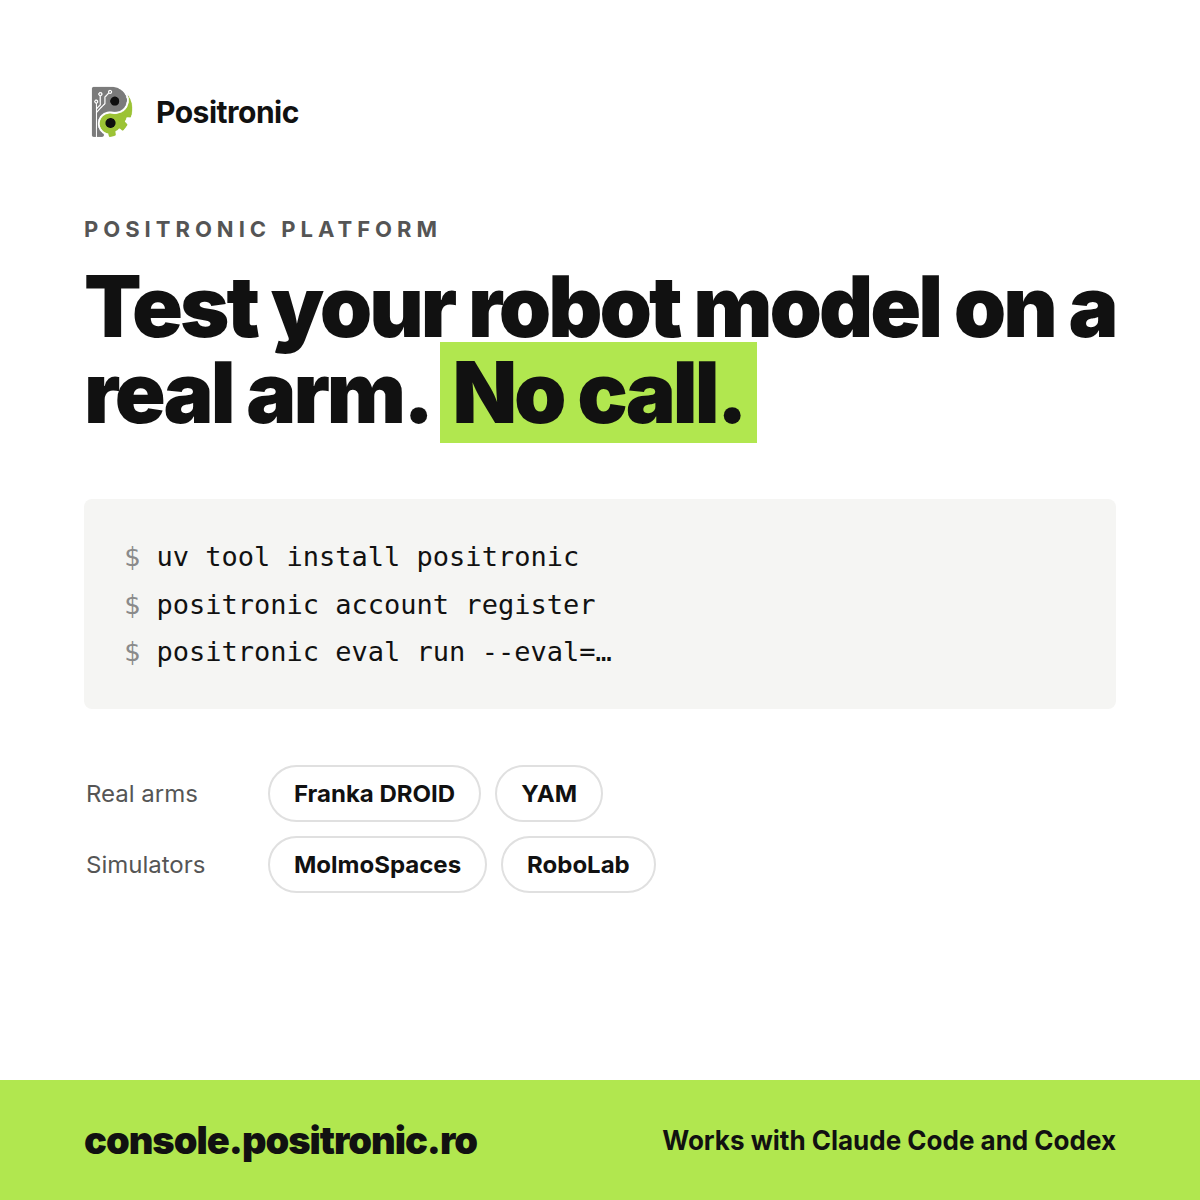
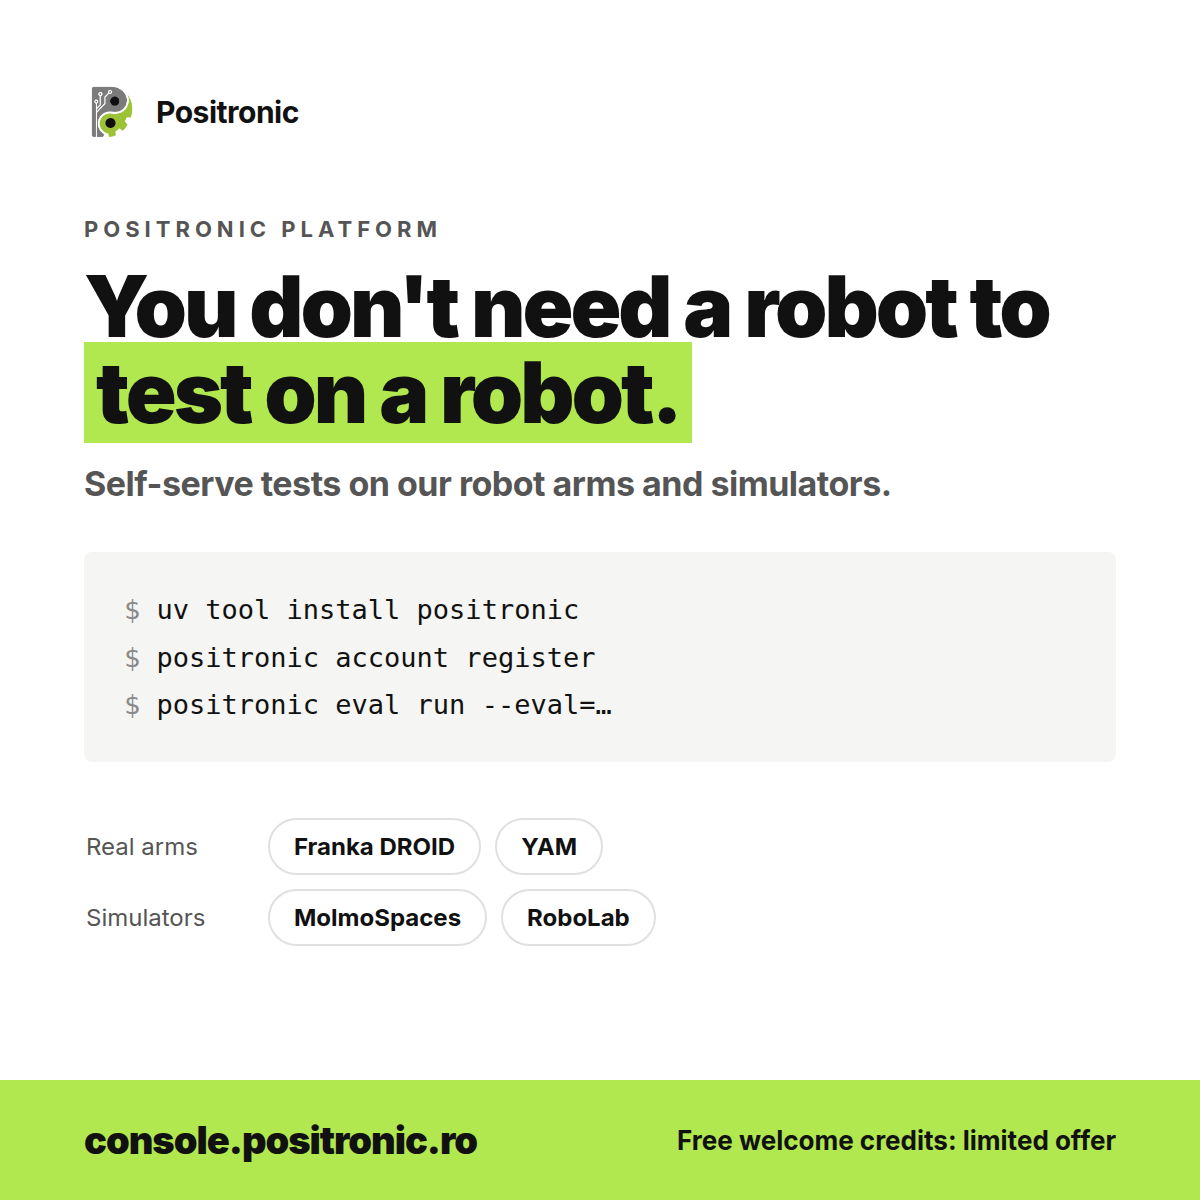
Rewrite the self-serve post around self-serve, transparent and fast
The title is now "You Don't Need a Robot to Test on a Robot". The post no
longer says "no call", "no contract" or "without talking to us", and it
offers free welcome credits as a limited offer. The card has the new
headline.

Ticket: none Inessa's work lives in the Work tool (task "self check-out")
Requested-by: Inessa

diff --git a/content/blog/positronic-platform-self-serve.md b/content/blog/positronic-platform-self-serve.md
@@ -1,14 +1,18 @@
-Title: Test Your Robot Model on Our Arms, No Call Needed
+Title: You Don't Need a Robot to Test on a Robot
 Date: 2026-12-01 14:00
 Category: Blog
 Slug: positronic-platform-self-serve
 Author: Vladimir Yakunin
-Summary: Positronic Platform is open to everyone. Make an account, buy credits and test your robot policy on a real Franka or YAM arm, or in MolmoSpaces and RoboLab. Your coding agent can drive all of it.
+Summary: Positronic Platform is open to everyone, self-serve. Make an account, buy credits and test your robot policy on our robots, a Franka or a YAM arm, or in MolmoSpaces and RoboLab. Your coding agent can drive all of it.
 Image: media/self-checkout-card.png
 
-**tl;dr** Positronic Platform is open to everyone. Make an account, buy credits, submit your policy as a Docker image, and get video and scores back from a real robot arm or a simulator. No sales call, no contract, no web forms. Your coding agent can drive the whole thing.
+**tl;dr** Test your robot model on our robots. Positronic Platform is open to everyone and is self-serve: make an account, buy credits, submit your policy as a Docker image, and get video and scores back from a real robot arm or a simulator. Your coding agent can drive the whole thing.
 
-Until now, every evaluation we ran for a lab started with a call. Now a student with a fresh fine-tune at 2 am, or an agent with ten checkpoints to try before lunch, can run one alone.
+- **Self-serve.** A student with a fresh fine-tune at 2 am, or an agent with ten checkpoints to try before lunch, can start a run alone.
+- **Transparent.** The prices are public, and your account page shows each run and what it cost.
+- **Fast.** You submit from the command line and follow the run there, from the queue to the scores.
+
+**Limited offer while we ramp up:** ask for free welcome credits (see "Try it for free" below).
 
 ## What you can run
 
@@ -55,8 +59,8 @@ Scores come from automated measurement and from the review of trained people. If
 
 ## Try it for free
 
-Email [hi@positronic.ro](mailto:hi@positronic.ro) with your user id (your account page shows it) and what you plan to evaluate. We review each request and give welcome credits.
+While we ramp up, we give free welcome credits to teams that want to try the platform. This is a limited offer. Email [hi@positronic.ro](mailto:hi@positronic.ro) with your user id (your account page shows it) and what you plan to evaluate. We review each request and give welcome credits.
 
 Questions go to our [Discord](https://discord.gg/PXvBy4NBgv).
 
-Is your model a top model? Now you can find out without talking to us.
+Is your model a top model? Now you can find out today.
